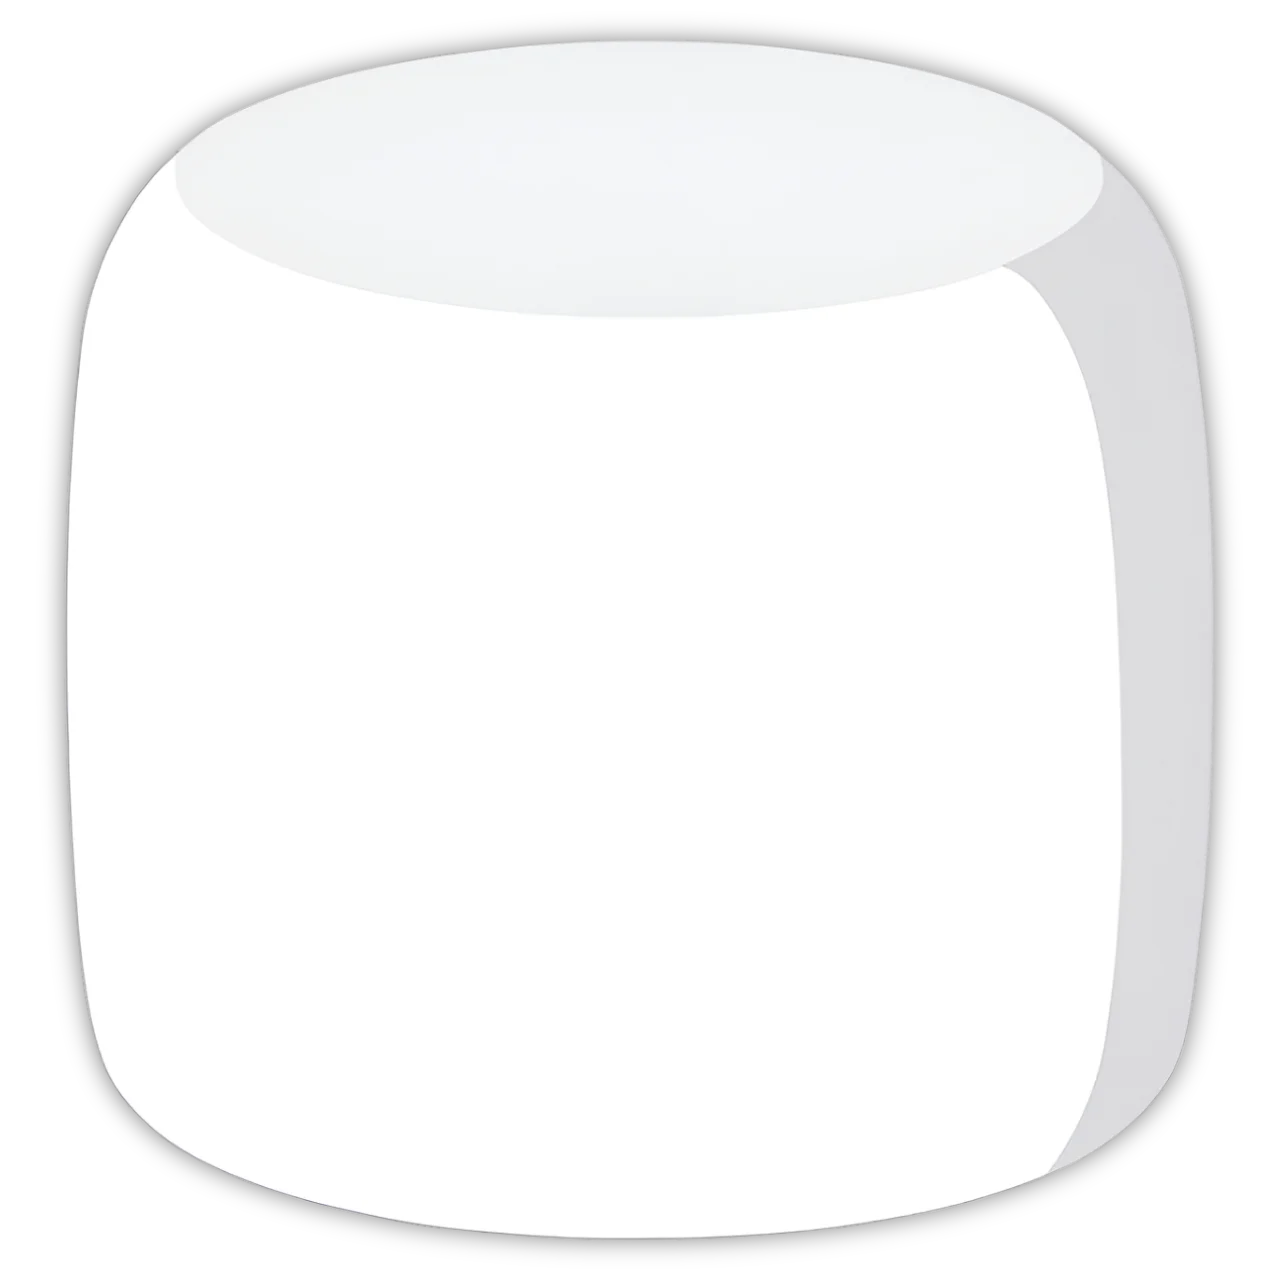
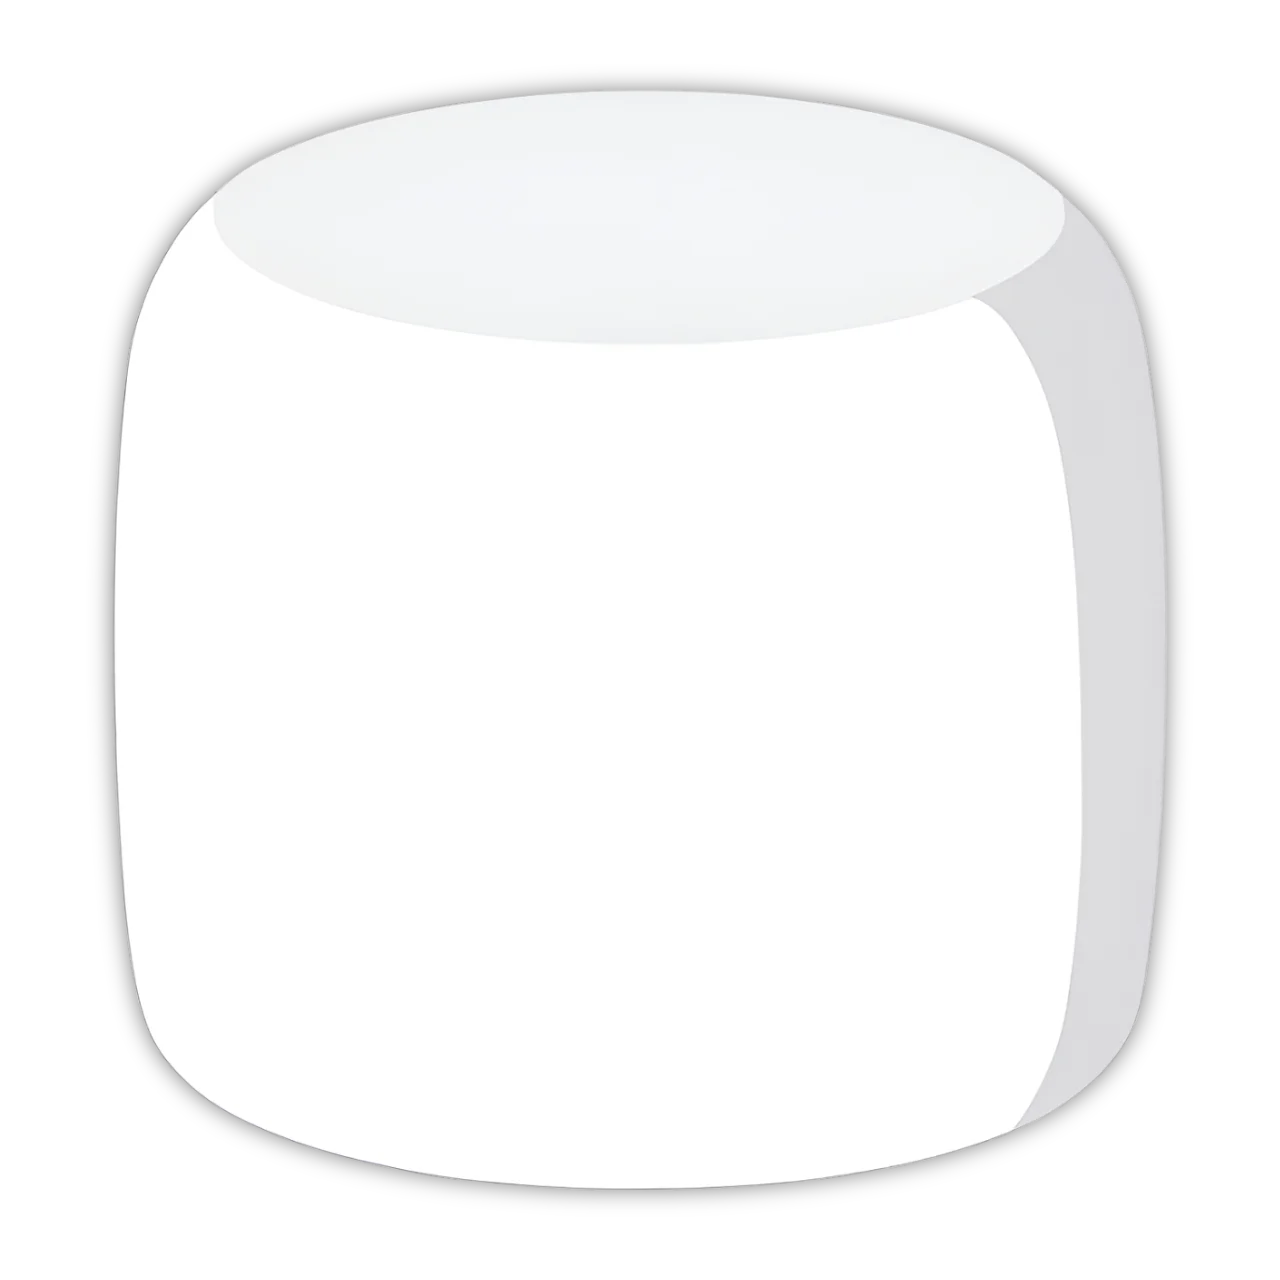
feat: :art: Resize pawns

diff --git a/src/components/content/Content.jsx b/src/components/content/Content.jsx
@@ -11,7 +11,7 @@ export default function Content() {
   const [selectedBoard, setSelectedBoard] = useState(0);
 
   const boardImages = [
-    "/basketbao.webp",
+    "/basket.webp",
     "/beach.webp",
     "/biscuit.webp",
     "/galaxy.webp",
@@ -133,10 +133,10 @@ export default function Content() {
   }
 
   return (
-    <main className="px-6 py-8 flex flex-col justify-center items-center">
+    <main className="px-6 py-12 flex flex-col justify-center items-center">
       <div className="text-2xl">{status}</div>
 
-      <div className="text-lg my-6">
+      <div className="text-lg mt-8 mb-10">
         <button
           onClick={changeBoard}
           className="hover:opacity-85 text-lg py-3 px-6 rounded-full bg-gradient-to-r from-primary to-secondary"
@@ -145,7 +145,7 @@ export default function Content() {
         </button>
       </div>
 
-      <div className="relative w-2/4 aspect-square">
+      <div className="relative w-4/4 md:w-2/4 aspect-square">
         <Image src={boardImages[selectedBoard]} width={2000} height={2000} alt="Plateau" className="w-full h-auto" />
         {handleSquare(0, 'top-0 left-0')}
         {handleSquare(1, 'top-0 left-1/3')}

diff --git a/src/components/footer/Footer.jsx b/src/components/footer/Footer.jsx
@@ -1,5 +1,7 @@
 export default function Footer() {
   return (
-    <footer className ="px-6 py-4">© 2024 Tic Tac Toe - Manon Eche</footer>
+    <footer className="px-6 pt-10 pb-4">© 2024 Tic Tac Toe -
+      <a href="https://www.manon-eche.com" className="text-secondary font-bold" target="_blank"> Manon Eche</a>
+    </footer>
   )
 }
